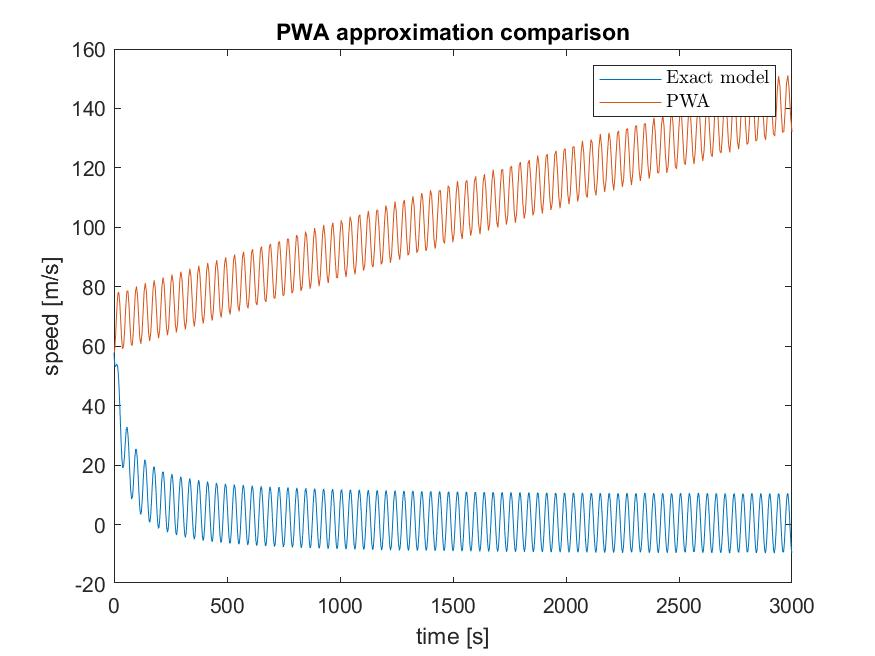
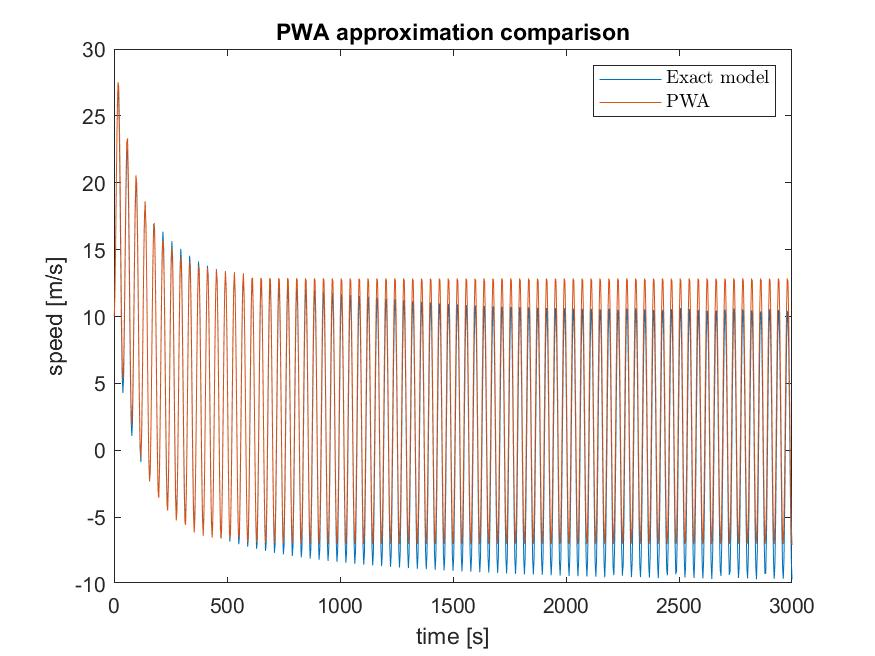
bfxbf

diff --git a/code files/main.m b/code files/main.m
@@ -44,7 +44,7 @@ a_min = (b*u_min)/(1+gamma*g(3))/m-c/m*v_max^2;
 vars.v_max = v_max; % Make struct to pass to functions later
 %% 2.2
 Vsamp = linspace(0, v_max, 200);
-alpha = 28; beta = 230;
+alpha = 35; beta = 230;
 vars.alpha = alpha; vars.beta = beta;
 
 P_2 = fricApprox(Vsamp, vars);
@@ -59,7 +59,7 @@ xlabel 'speed [m/s]'
 saveas(gcf,'Pics/Plot_2.2.jpg')
 
 %% 2.3
-x0 = [0;v_max];
+x0 = [0;10];
 u = @(t) 0.01 + u_max/2*sin(t/2/pi);
 [t_3_1,y_3_1] = ode45(@(t,y) modelExact(t,y,u,vars, "gearlock"), [0 t_end], x0);
 [t_3_2,y_3_2] = ode45(@(t,y) modelPWA(t,y,u,vars, "gearlock"), [0 t_end], x0);

diff --git a/code files/modelExact.m b/code files/modelExact.m
@@ -5,13 +5,13 @@ ut = u(t);
 if mode == "gearlock"
     gear = 1;
 elseif y(2)<vars.v12
-    warning("Here I am in gear 1")
+%     warning("Here I am in gear 1")
     gear = 1;
 elseif y(2)<vars.v23
-    warning("Here I am in gear 2")
+%     warning("Here I am in gear 2")
     gear=2;
 else
-    warning("Here I am in gear 3")
+%     warning("Here I am in gear 3")
     gear=3;
 end
 
